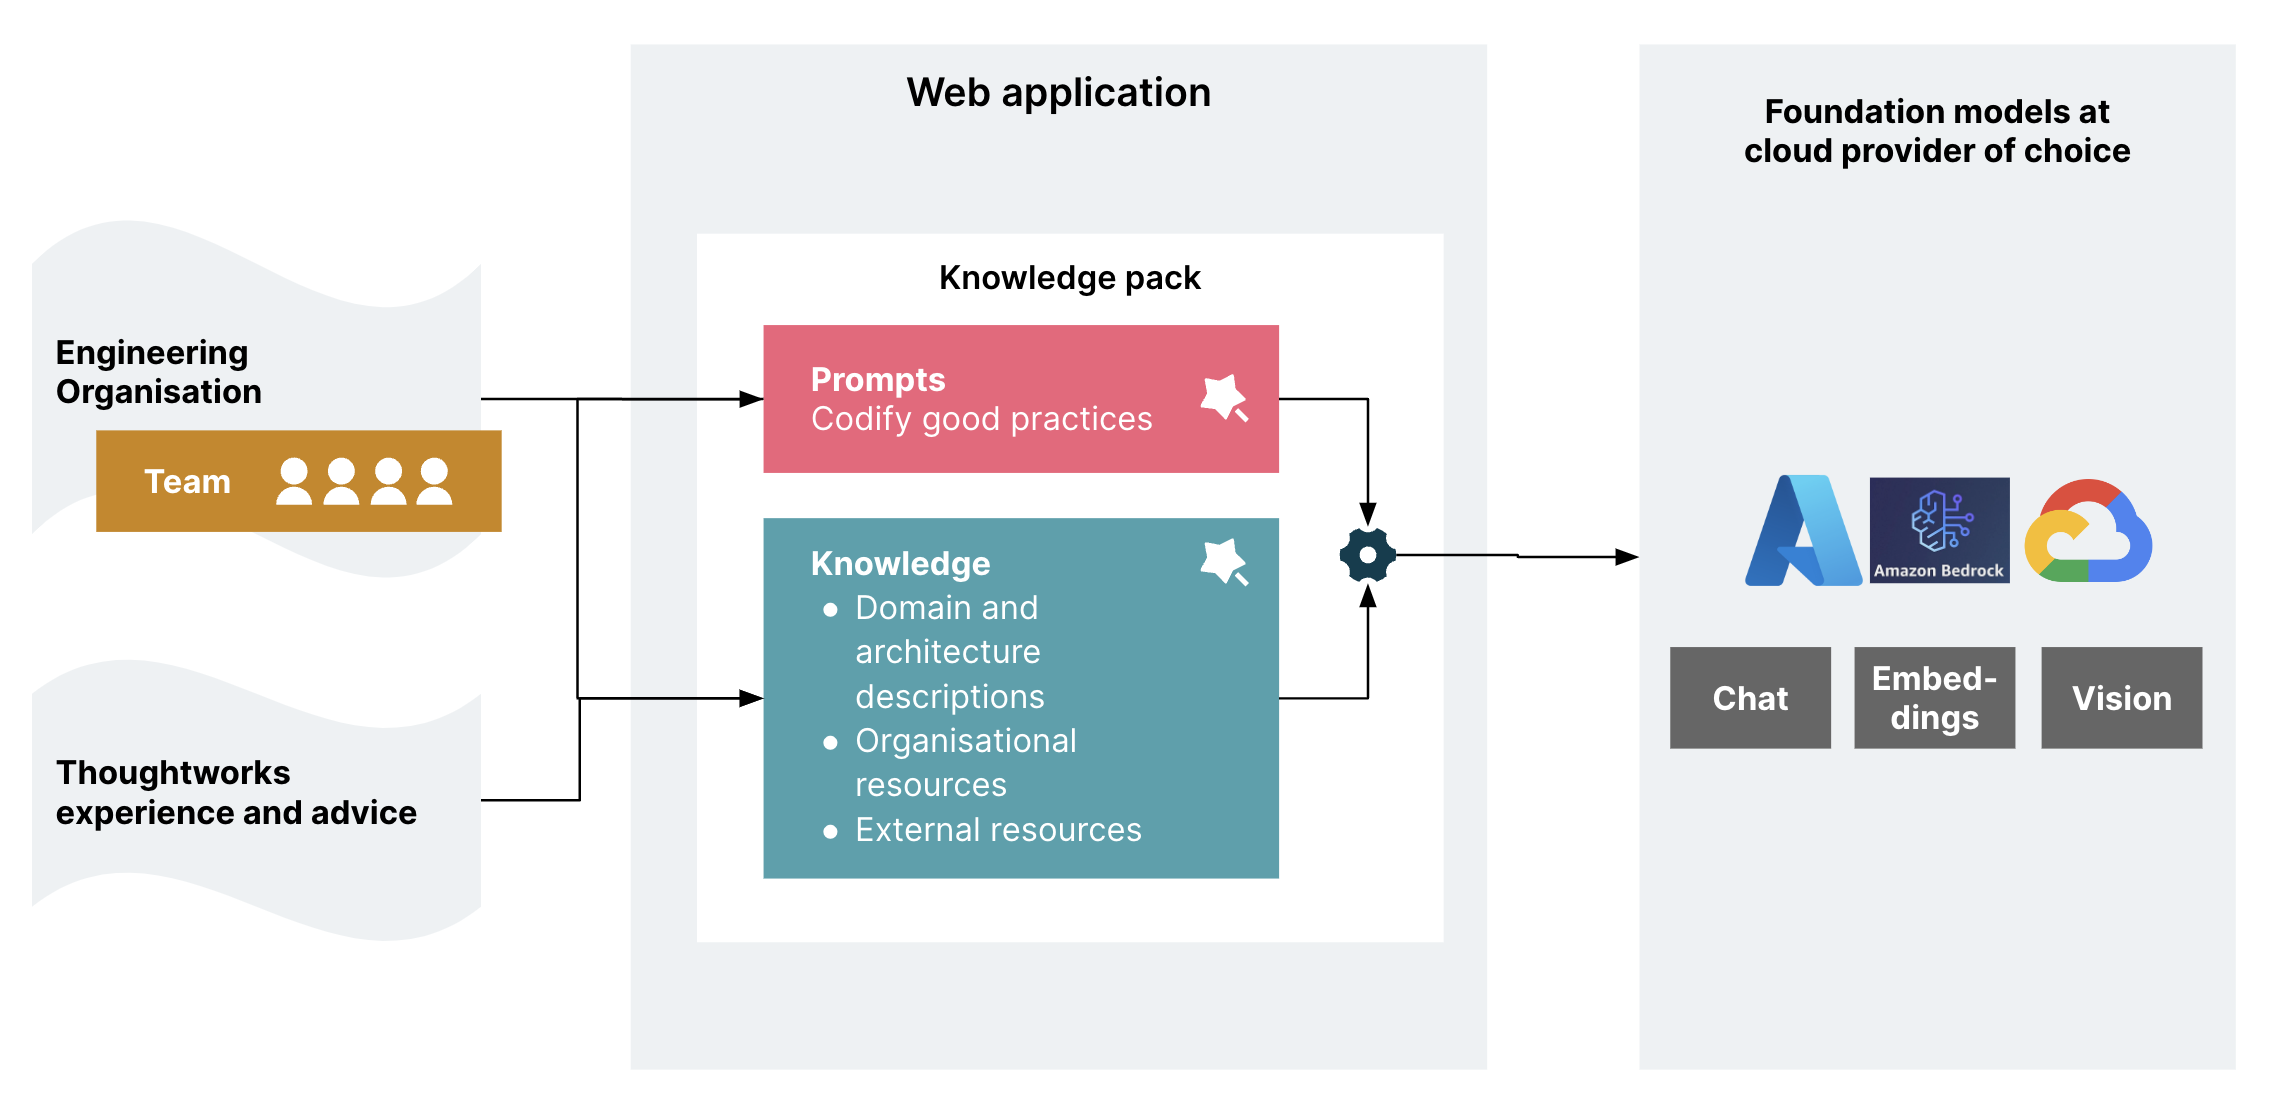
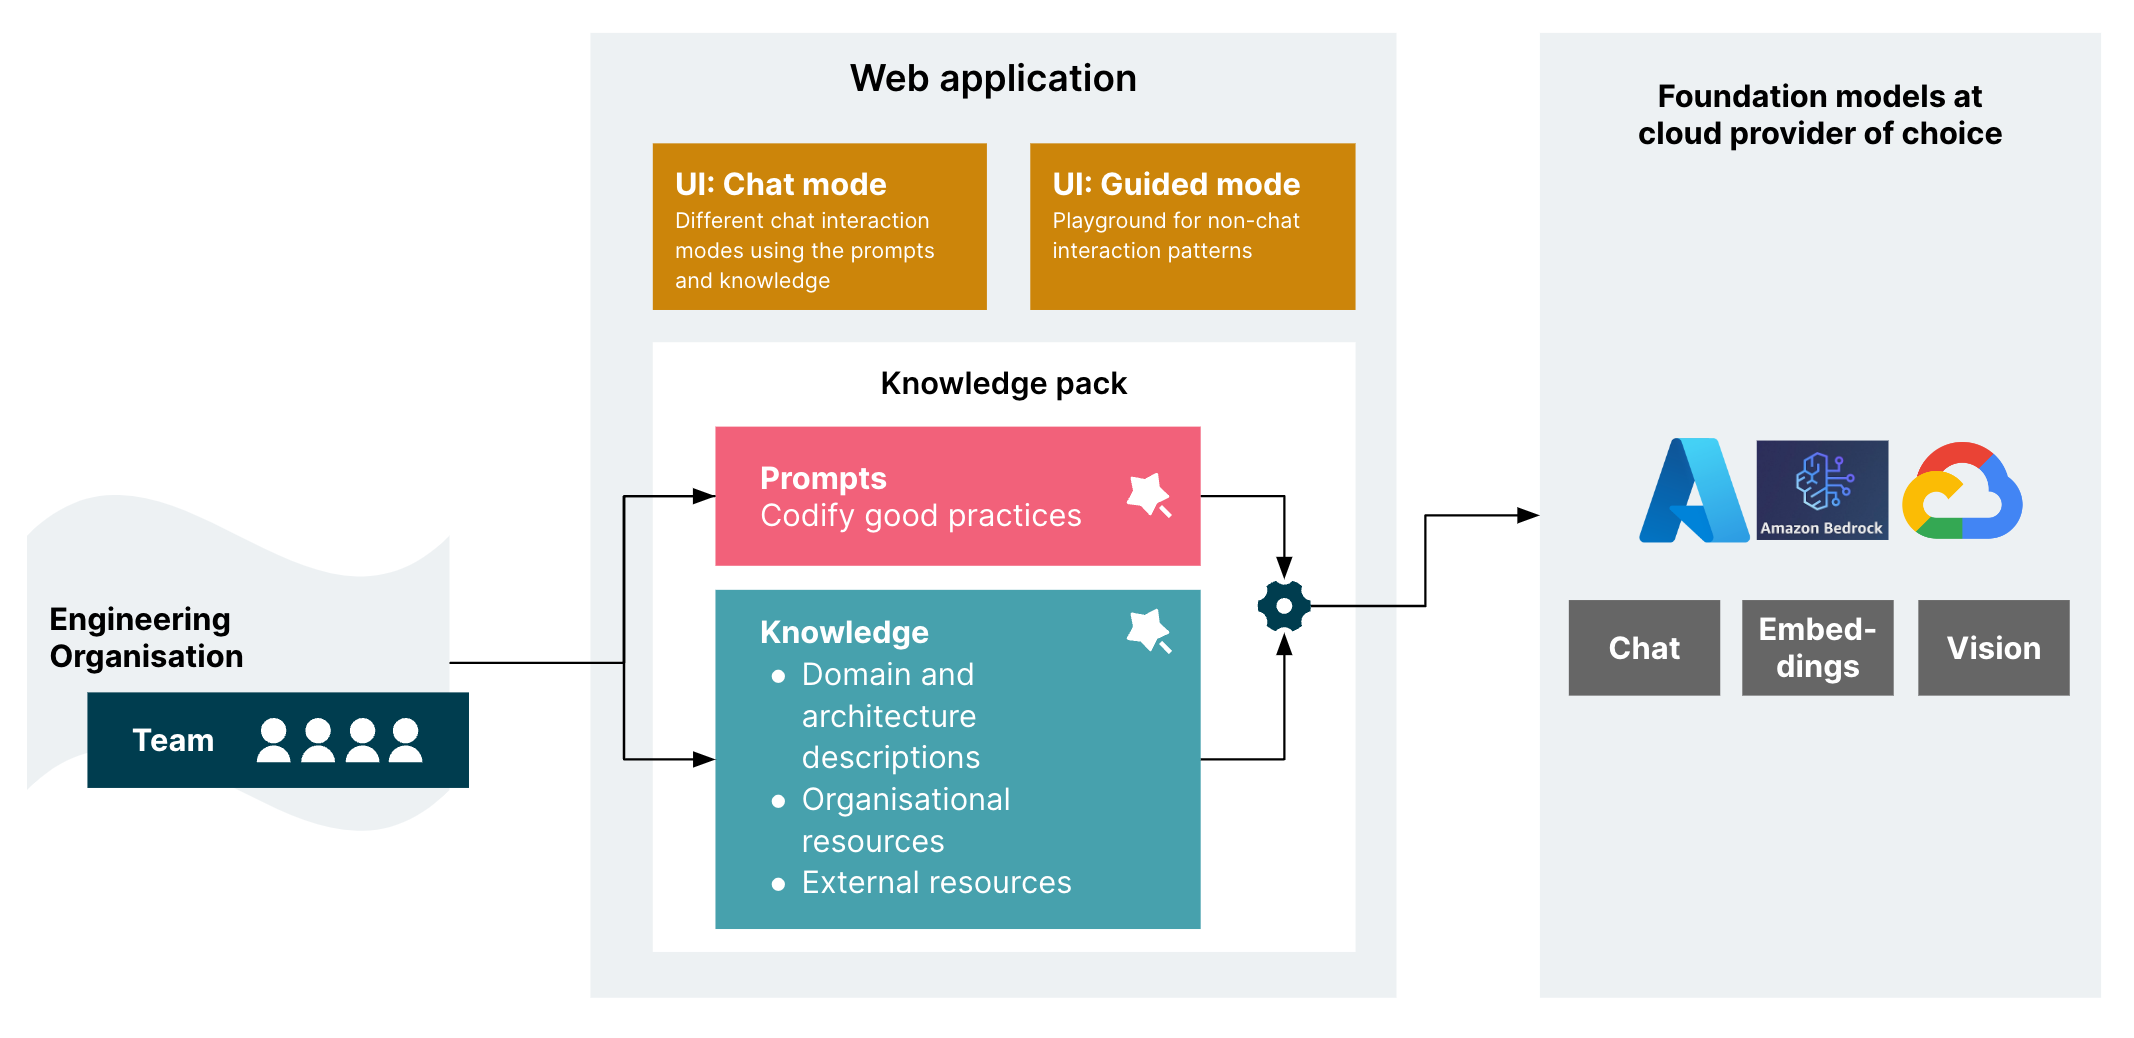
Update README and docs

diff --git a/README.md b/README.md
@@ -2,19 +2,42 @@
 
 # Haiven team assistant
 
-(formerly known as "Team AI")
+[Thoughtworks](https://thoughtworks.com) is a global software consultancy working for a wide range of clients. We're using Haiven to offer our clients a **lean way to pilot the use of AI assistance for software delivery teams** while the market of products is still busy and evolving.
 
-The Haiven team assistant is an accelerator we use to pilot the use of Generative AI assistance for software delivery tasks beyond coding.
+## What is it?
 
-This codebase provides the scaffolding to build a one-container web application that can act as an assistant to a software delivery team. You can plug in your own "knowledge pack", adapted to your organisation's and teams' needs.
+A **sandbox to lower the barrier to experiment** with the use of Generative AI assistance for software delivery **tasks beyond coding**. 
+
+- Simple one-container deployment --> **easy to deploy** in your environment
+- Integratable with the 3 big cloud provider's model services (Azure OpenAI, Google Gemini, AWS Bedrock) --> choose your existing cloud provider of choice to alleviate at least some of the **data confidentiality concerns** that currently limit many enterprise's choice of product and tool usage
+- Separation of application and **"knowledge pack"** to plug in and change your own prompts and domain information --> **customize** to your team
+
+## What is it NOT?
+
+- A product
+- A fully fleshed out and scalable tool
+
+## Why?
+
+[More on the why here](docs/why.md), in particular these two questions:
+* Why would you use it?
+* How does it compare to...?
+
+# Overview
 
 ![Overview](./docs/images/overview.png)
 
-It lets you codify your practices and knowledge and make it available to an AI assistant, to surface it to team members just-in-time when they are working on a task.
+Haiven lets you codify your practices and knowledge and make it available to an AI assistant, to surface it to team members just-in-time when they are working on a task.
 
 ![Overview in more detail](./docs/images/overview_more_details.png)
 
-[![Demo video showing epic breakdown with Haiven](docs/images/demo_thumbnail.png)](https://drive.google.com/file/d/16Acc_eDC6iphHk9wQLrNsl8rksP_wjXz/view?usp=sharing)
+## Example "Chat mode"
+
+[![Demo video showing epic breakdown in Haiven's chat mode](docs/images/demo_chat_mode_epic_breakdown.png)](https://drive.google.com/file/d/108t7_tyYcwYUSuotSSTViHYBiXmOp2Kk/view?usp=sharing)
+
+## Example "Guided mode"
+
+[![Demo video showing threat modelling in Haiven's guided mode](docs/images/demo_guided_mode_thumbnail.png)](https://drive.google.com/file/d/105ksKtyfsoC98U_6O2m8gcrYkM4r3pBW/view?usp=sharing)
 
 ## Quickest way to try it out
 
@@ -24,13 +47,15 @@ Prerequisite:
 ### With Azure OpenAI
 
 - Create a `.env` file with the content of (app/.env.azure.template)[app/.env.azure.template]
-- Change the `AZURE_OPENAI_API_KEY` in that file to the API Key - ask the Haiven team for access to the "trial" Azure OpenAI API Key, if you haven't received it yet.
+- Change the `AZURE_OPENAI_API_KEY` in that file to the API Key - (Thoughtworkers can ask the Haiven team for access to the "trial" Azure OpenAI API Key).
 
 ```
 mkdir haiven
 cd haiven
 # Put the .env file into this new folder
 git clone git@github.com:tw-haiven/haiven-tw-knowledge-pack.git
+# The TW knowledge pack is private, you can use our sample pack if you don't have access
+# git clone git@github.com:tw-haiven/haiven-community-knowledge-pack.git
 docker run \
         -v ./haiven-tw-knowledge-pack:/app/teams \
         --env-file .env \
@@ -51,6 +76,8 @@ ollama pull llava:7b
 mkdir haiven
 cd haiven
 git clone git@github.com:tw-haiven/haiven-tw-knowledge-pack.git
+# The TW knowledge pack is private, you can use our sample pack if you don't have access
+# git clone git@github.com:tw-haiven/haiven-community-knowledge-pack.git
 # As long as the repo is private, you'll need to log in (see doc link above)
 echo $CR_PAT | docker login ghcr.io -u USERNAME --password-stdin
 docker run \
@@ -66,41 +93,24 @@ docker run \
         ghcr.io/tw-haiven/haiven:main
 ```
 
-Please note that while this local mode is great for getting a taste of the application, the prompts in our knowledge pack are currently only tested with the AWS, Azure and Google models listed [here](https://github.com/tw-haiven/haiven/blob/main/app/config.yaml), and might not work as well with the open models loaded with Ollama.
-
-## Why?
-
-The product and tooling space around coding assistance is relatively mature, in the sense that it is possible to see value already today, and some of the products are already adopted in large enterprises.
-
-However, when it comes to software delivery tasks other than coding, there is not much out there yet. Some of the incumbent vendors for the delivery toolchain (wikis, issue trackers, CI/CD products, ...) are working on adding AI to their toolchain, and their is the odd startup here or there that tries to tackle one of the task areas. There are also a bunch of products evolving that enable the sharing and monitoring of prompts in an organisation, which could be used to build a similar sandbox. But overall, it is hard to gather experience and data today about how AI can be used to assist a software delivery team in their day-to-day work.
-
-**Haiven** provides a lean self-cloud-hosted sandbox to experiment, and to gather data and experience today that can inform strategy and tool choices for the future.
-
-* Control the setup by deploying into your own infrastructure environment, instead of trusting a bleeding edge startup
-* Use the models provided by your cloud provider of choice (AWS, Google Cloud, or Azure), instead of running a risk assessment for and creating contracts with a new vendor
-* Add your own SSO for access control
+#### Ollama restrictions
+Please note that while this local mode is great for getting a taste of the application, the prompts in our knowledge pack are currently only tested with the AWS, Azure and Google models listed [here](https://github.com/tw-haiven/haiven/blob/main/app/config.yaml), and might not work as well with the open models loaded with Ollama. Any of the RAG capabilities are also not working well in this mode, which is why our sample knowledge pack does not even contain any Ollama-compatible embeddings. It is possible, but we have not seen reasonable results with that yet.
 
 ## Limited-by-design
 
-For now, this is a one-container web application. Everything is baked into the container image you build, and everything happens in memory. The only persistence are the logs written by the application. This is by design, to keep the infrastructure setup as simple as possible, and reduce the barrier to experimentation.
+For now, this is a one-container web application. Everything is baked into the container image you build, and everything happens in memory. The only persistence are the logs written by the application. This is by design, to keep the infrastructure setup and data persistence setup as simple as possible, because we are prioritising a low barrier to experimentation.
 
-But of course, it comes with limitations:
+![](docs/images/one_container_tradeoffs.png)
 
-- No database means you have to rebuild the image and redeploy the application every time you change the knowledge pack
-- Users cannot edit and persist anything at runtime in the application
-- User chat sessions are not persisted
-- Limits to scalability, and to size of the knowledge packs, as everything needs to fit into memory
-- Very simple in-memory RAG (Retrieval-Augmented Generation) implementation, just enough to get an idea of the potential in the day-to-day work
-
-## HOW TO USE
+## How to run and deploy
 
 ### 1. Prepare access to Large Language Models
 
 There are 4 options:
-- Ollama (locally)
 - Azure AI Studio
 - AWS Bedrock
 - Google AI Studio
+- Ollama (locally)
 
 #### Option 1: Use Ollama locally on your machine
 
@@ -110,16 +120,16 @@ There are 4 options:
 
 #### Option 2: Setup credentials for Azure, GCP or AWS
 
-- Prepare the model setup and credentials in your respective Cloud environment. Check `[app/config.yaml](app/config.yaml)` for the models that are currently configured out of the box, or read below about how to configure additional models.
+- Prepare the model setup and credentials in your respective Cloud environment. Check `[app/config.yaml](app/config.yaml)` for the models that we currently have configured.
 - Consider setting quota and billing alerts to avoid unexpected costs and detect unexpected usage.
-- Create .env file from the respective template: Pick the template file that represents the provider you want to use, e.g. `cp ./app/.env.azure.template ./app/.env`.
-- Look at the defined environment variables in your new `.env` file and set the corresponding credentials.
+- Create `.env` file from the respective template: Pick the template file that represents the provider you want to use, e.g. `cp ./app/.env.azure.template ./app/.env`.
+- Look at the defined environment variables in your new `.env` file and fill in the credentials (API keys).
 
 ### 2. Get (and adapt) a "knowledge pack"
 
-You can clone the [Community Knowledge Pack](https://github.com/tw-haiven/haiven-community-knowledge-pack) or the [Thoughtworks Knowledge Pack](https://github.com/tw-haiven/haiven-tw-knowledge-pack) to get started.
+You can clone the [Community Knowledge Pack](https://github.com/tw-haiven/haiven-community-knowledge-pack) or, for Thoughtworkers, the [Thoughtworks Knowledge Pack](https://github.com/tw-haiven/haiven-tw-knowledge-pack) to get started.
 
-[Find more documentation about knowledge packs here](docs/knowledge_packs.md).
+Find more documentation about knowledge packs and how to adapt them [here](docs/knowledge_packs.md).
 
 
 ### 3. Run locally
@@ -134,7 +144,7 @@ If you want to use Azure, GCP or AWS, you need to set the corresponding environm
 Prerequisites:
 - Python3
 - [Poetry](https://python-poetry.org/)
-- If you don't have OAuth integration and credentials set up, you can set `AUTH_SWITCHED_OFF=true` in the `.env` file.
+- While you don't have OAuth integration and credentials set up yet, you can set `AUTH_SWITCHED_OFF=true` in the `.env` file.
 
 Run:
 
@@ -165,8 +175,6 @@ Look at the [Community Knowledge Pack repository](https://github.com/tw-haiven/h
 
 Secrets should not be added to `app/config.yaml`. For that matter in `app/config.yaml`, if one of the values is considered a secret, you must use a placeholder for an environment variable using the following format: `${ENV_VAR_NAME}`, where `ENV_VAR_NAME` is the name of the environment variable. This value will be replaced on runtime with the value of the environment variable, which can be securely set at deployment time.
 
-> Note: Embeddings model cannot be changed after app initialization. The same embeddings model is used independentely of the LLM model selected.
-
 ##### Setup default models
 
 You can fix the models to be used by different use cases by setting the `chat`, `vision` and `embeddings` properties to a valid model `id` value, in the `default_models` section of the `app/config.yaml` file.
@@ -180,16 +188,13 @@ default_models:
   embeddings: text-embedding-ada-002
 ```
 
+<< TODO: Is this still correct? Isn't vision mandatory as well? >>
 Only embeddings is mandatory. When chat or vision are not set, the app will show a dropdown allowing the user to select the model to use.
 
-#### Deploy
+#### You want to deploy?
 
 How you deploy the container image is all up to your environment - you could use Google Cloud Run, or an existing Kubernetes cluster on AWS, or an equivalent service on Azure, or your own data center container infrastructure.
 
-This makes you responsible for the usual application security practices like secrets management, TLS, security monitoring and alerting, etc.
+This of course makes you responsible for the usual application security practices like secrets management, TLS, security monitoring and alerting, etc.
 
-### 5. Add custom interaction modes
-
-Because the application uses Gradio, a frontend framework that is meant for quick UI prototyping with machine learning models, it is quite easy to add additional tabs and UI elements to the application. Beyond the interaction modes available, you can think about what other more custom interactions would be helpful to your delivery team.
-
-The code shows one common example: Querying a database with natural language. You can adapt that to be connected to your own database, e.g. a database in a test environment, to be used by testers, new team members who are not familiar with the schema yet, or even business stakeholders.
+For Thoughtworkers: Our demo deployment is an example for deploying Haiven to Google Cloud, ask the Haiven team about access to that code.

diff --git a/docs/why.md b/docs/why.md
@@ -1,0 +1,22 @@
+
+## Why would you use Haiven?
+
+- **Evaluate the potential TODAY**: The market is still very busy and evolving, and many of the tools are not that specific to software delivery tasks, or only focus on a narrow range. If you want to try things today, then Haiven offers a simple sandbox to do so
+- **Upskilling**: A mindset shift is needed to using AI assistants, they don't work like other software, and practical usage is the best way to learn. And yet, many still lack the inspiration and ideas to try things in the daily software delivery work. Haiven prompts and features offer a bunch of ideas to get people started and extrapolate to tasks that are more specific to your team or organisation.
+- **Stop the speculation**: AI demos look very magical, but many features are still in private preview or beta. At the same time, the technology is quite accessible to experiment relatively cheaply yourself, and find out which of YOUR frequently done or difficult tasks AI can meaningfully help with, to then adjust your strategy based on what you're learning.
+- **Focus on the usage, not the tech**: We have found that people get into the technical weeds of setting up AI and Retrieval-Augmented Generation (RAG) in particular, neglecting the perspective of the users, and how AI can actually help in a software delivery team's workflow. Using a lightweight, low complexity setup that gets the basic technical challenges out of the way to let a team focus on the real-life usage can help with that. We also recommend that you don't get too hung up on making the RAG setup more and more sophisticated, as we are already seeing some interesting uplift and learnings with simpler technical approaches in combination with careful data curation.
+
+## How does Haiven compare to...
+
+- **Chatbot builders** like [OpenAI's GPTs](https://openai.com/index/introducing-gpts/) or [Dify](https://dify.ai/): You can absolutely cover part of Haiven's functionality with these platforms, e.g. build a GPT for writing a user story, or a Dify chatbot to help with an architecture decision record. Their Retrieval-Augmented Generation capability are probably even better. Haiven might give you a bit more control over where your data goes, and it has more flexibility to experiment with less chatbot-like interaction patterns in Haiven's "Guided mode".
+- **AI features being built into existing products** like JIRA? - We absolutely recommend that you try these new features out as they are being released, and compare. The main difference for now is the level of flexibility. Most tools currently land somewhere between a chatbot and ready-baked workflows that are hard to customize. With Haiven you can work closer to the flexibility of AI and try a wider range of things.
+- **Cloud providers' AI platforms** like [Amazon's Bedrock and Q](https://www.aboutamazon.com/news/aws/amazon-bedrock-new-innovations-generative-ai-applications), [Google's Vertex AI Studio](https://cloud.google.com/generative-ai-studio?hl=en), or [Azure's AI Studio](https://azure.microsoft.com/en-us/products/ai-studio)? All of these "studios" offer the ability to build applications like Haiven in a simple way, by connecting foundation models and also building vector-based knowledge bases that can be used for retrieval-augmented generation (RAG). For Haiven to work, you need to use one of these to get access to models. And you could even use these platforms' knowledge base capabilities to connect more sophisticated RAG capabilities than the simple in-memory ones we use in Haiven at the moment. 
+
+## The AI shift is about more than tools
+
+We want to emphasize that we are already seeing what we're always seeing: The actual challenges in AI assistance for software teams are not in deploying the technology, and it's not just about tools. It's also about people and processes. 
+
+- **Are your teams understanding the strengths and weaknesses of AI and using them accordingly?** Or are they trying to shoehorn RAG into a drop-in replacement for any type of search, regardless of the context? Software is a design process, are they just thinking of AI as a glorified artifact generator, or are they actually finding ways to help them use it as an assistant in their design process?
+- Are you opening a firehose of documentation to improve your AI assistance? GenAI amplifies indiscriminately, so you might find that the quality of the assistance depends on the quality of your documentation and data, and you might still need an approach to data curation to improve the assistance.
+- How are your teams making the mindset shift to AI assistance? Are they putting the assistant aside as soon as it gives them one bad answer, or are they properly leveraging the non-deterministic nature of AI?
+
